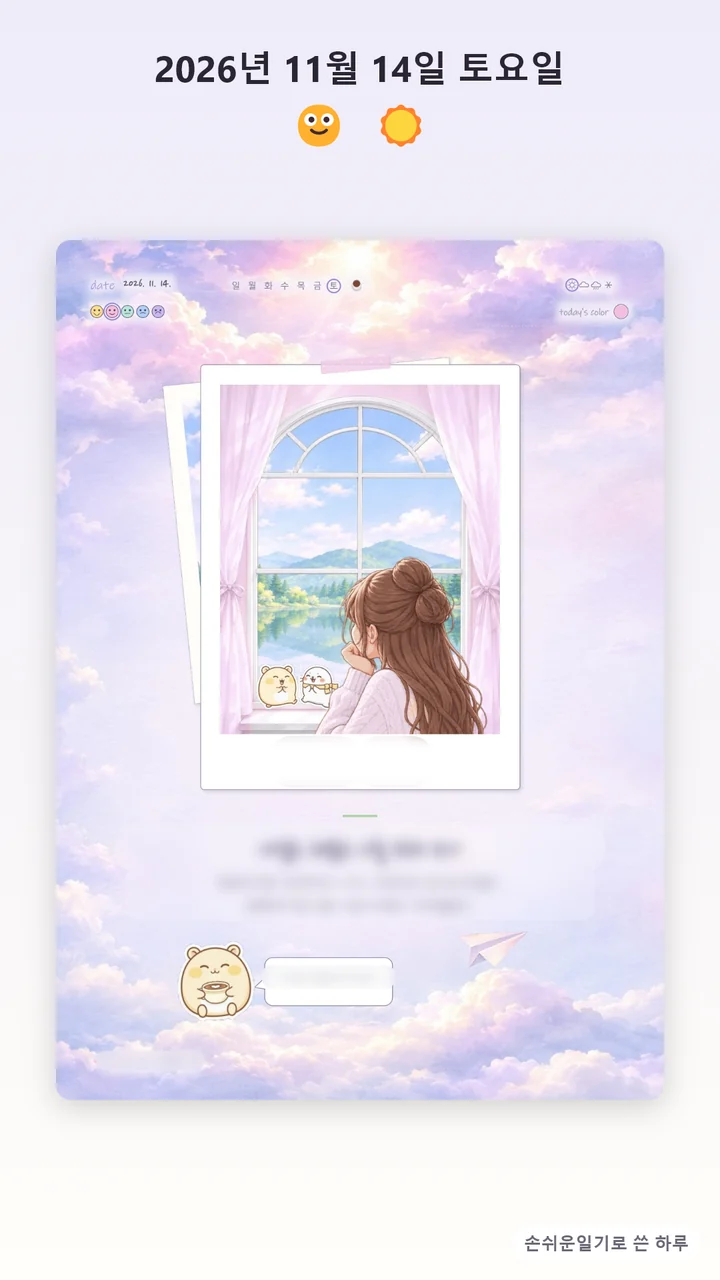
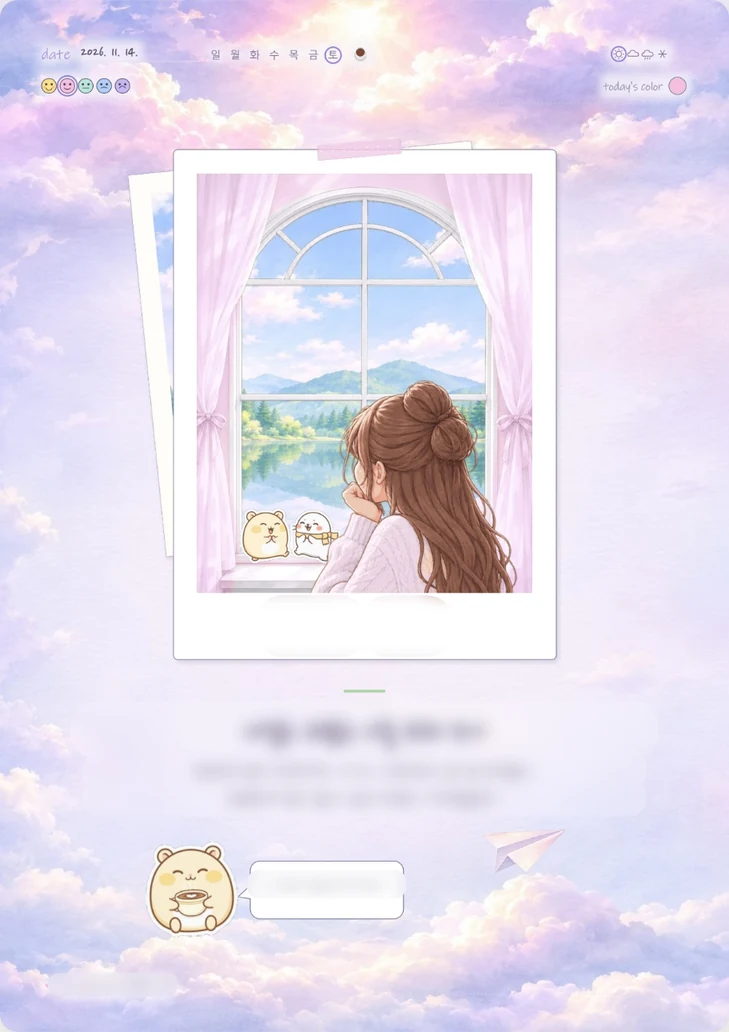
일기 쪽 그림을 쪽만 남게 · 그림 설명 · 어두운 화면 받기 단추 테두리
Claude-Session: https://claude.ai/code/session_01RpHMPyuT7zbEDLkvSGcGLu

diff --git a/index.html b/index.html
@@ -112,7 +112,9 @@ section { padding-block: 88px; }
 /* 날마다 다른 쪽 */
 .pageband { background: var(--paper-2); }
 .page-grid { display: grid; grid-template-columns: minmax(0, .9fr) minmax(0, 1.1fr); gap: 56px; align-items: center; }
-.page-shot { border-radius: 18px; overflow: hidden; box-shadow: 0 24px 50px -24px #2a273766; max-width: 420px; justify-self: center; }
+.page-fig { margin: 0; justify-self: center; max-width: 440px; }
+.page-shot { border-radius: 14px; box-shadow: 0 24px 50px -24px #2a273766; width: 100%; height: auto; }
+.page-fig figcaption { margin-top: 12px; font-size: .85rem; color: var(--muted); text-align: center; }
 .points { list-style: none; margin: 28px 0 0; padding: 0; display: grid; gap: 18px; }
 .points li { display: grid; grid-template-columns: 36px minmax(0, 1fr); gap: 14px; align-items: start; }
 .points .ic { width: 36px; height: 36px; border-radius: 10px; background: var(--petal-soft); color: var(--petal); display: grid; place-items: center; font-size: 1.1rem; }
@@ -167,7 +169,7 @@ section { padding-block: 88px; }
 .cta img.icon { width: 88px; height: 88px; border-radius: 22px; margin: 0 auto 20px; box-shadow: 0 14px 30px -14px #1f234799; }
 .cta p { color: var(--muted); max-width: 32em; margin: 12px auto 26px; }
 .cta .stores { justify-content: center; }
-.cta .store { background: var(--night); border-color: var(--night); }
+.cta .store { background: var(--night); border-color: color-mix(in srgb, var(--moon) 45%, transparent); }
 footer { padding-block: 28px calc(28px + env(safe-area-inset-bottom, 0px)); font-size: .86rem; color: var(--muted); }
 footer .wrap { display: flex; flex-wrap: wrap; gap: 8px 22px; align-items: center; }
 footer a { color: var(--muted); }
@@ -254,7 +256,10 @@ footer a { color: var(--muted); }
 
   <section class="pageband">
     <div class="wrap page-grid">
-      <img class="page-shot" src="img/page.webp" alt="FeelDiary 로 꾸민 하루 한 쪽 — 구름 배경지와 창가의 오늘의 창" data-alt="altPage" width="720" height="1280" loading="lazy">
+      <figure class="page-fig">
+        <img class="page-shot" src="img/page.webp" alt="FeelDiary 로 꾸민 하루 한 쪽 — 구름 배경지와 창가의 오늘의 창" data-alt="altPage" width="729" height="1032" loading="lazy">
+        <figcaption data-k="pageCap">자랑 카드로 꺼낸 하루 한 쪽 — 글은 이렇게 흐리게 가려져요.</figcaption>
+      </figure>
       <div>
         <div class="eyebrow" data-k="pageEyebrow">날마다 다른 쪽</div>
         <h2 data-k="pageTitle">오늘의 나에게 어울리는 한 쪽</h2>
@@ -391,6 +396,7 @@ const EN = {
   s1t: 'Pick a mood and the weather', s1p: 'Five faces, four kinds of weather. Skip it if you like — we guess from what you write.',
   s2t: 'Talk or type a few lines', s2p: 'Tap the big mic and talk like you would to a friend. It turns into text on your device. Up to 3 photos.',
   s3t: 'Your page is done', s3p: 'A background, photo spots and handwriting that suit the day, plus a note from Mochi & Dubu.',
+  pageCap: 'A day page taken out as a brag card — your text is blurred like this.',
   pageEyebrow: 'A different page every day', pageTitle: 'A page that fits who you were today',
   p1t: 'Backgrounds that match your mood', p1p: 'Cherry blossoms, cloud walks, morning sun… the paper is chosen to suit the day.',
   p2t: "Today's window comes alive", p2p: 'The view changes with the season and time, and petals, leaves or snow drift by.',
